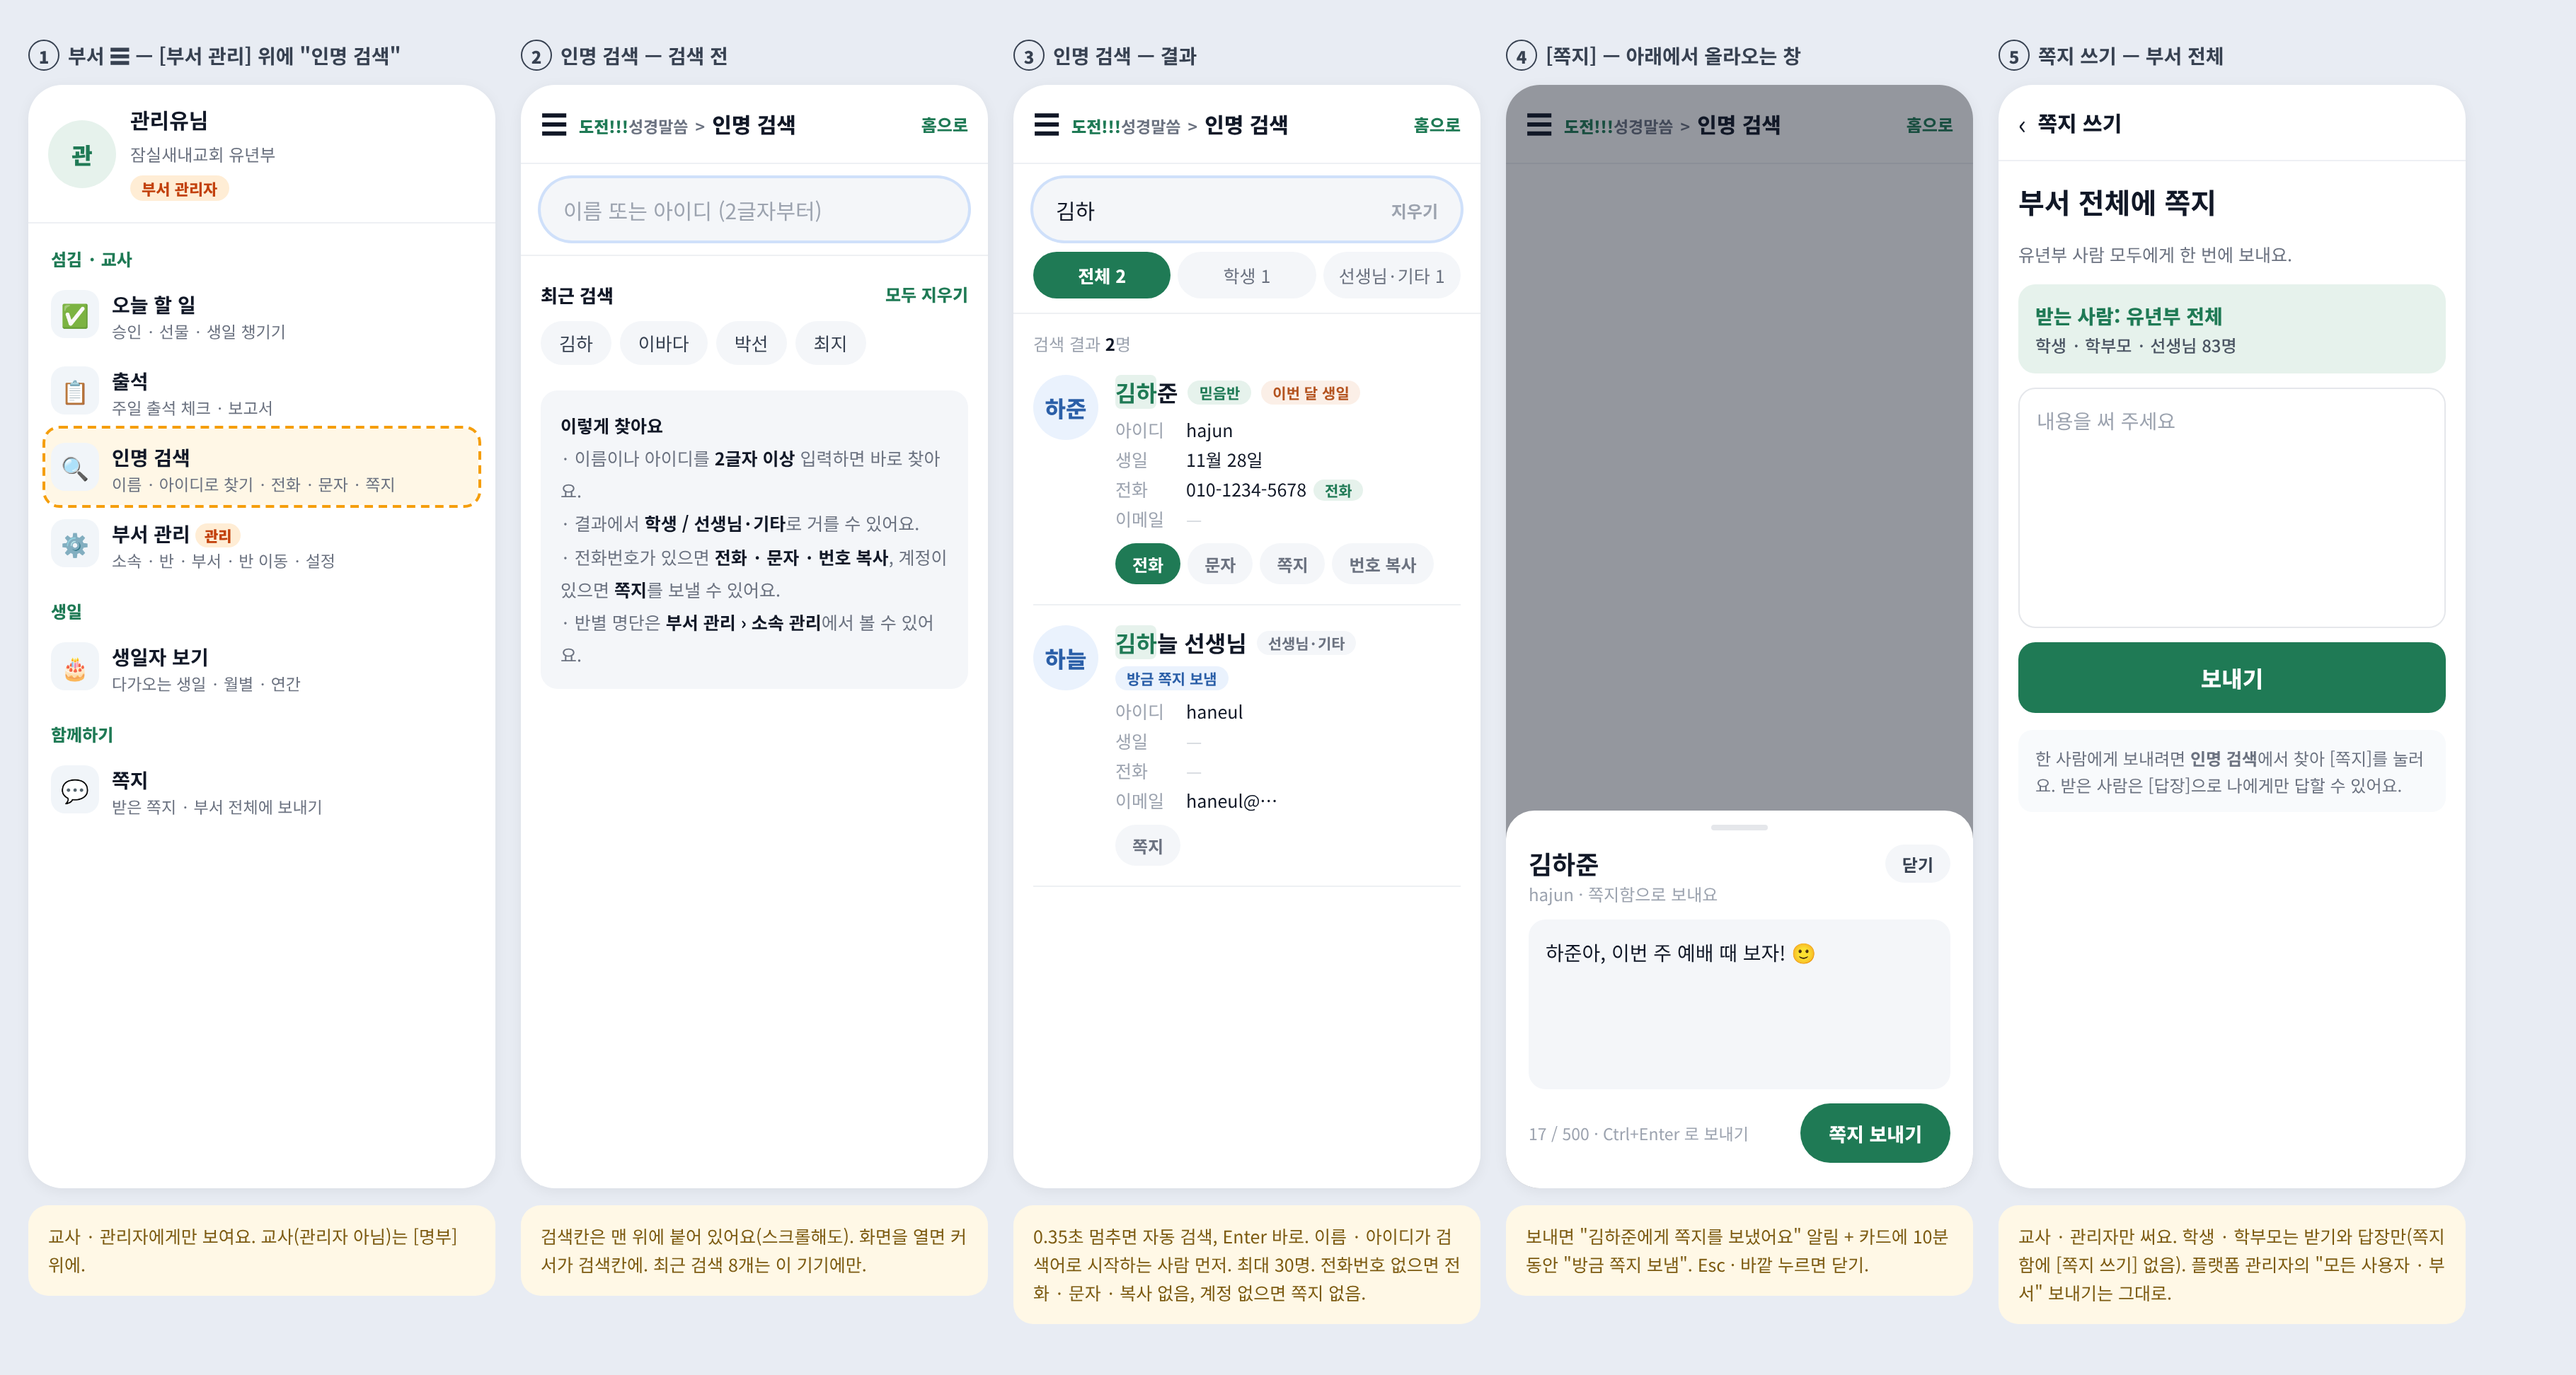
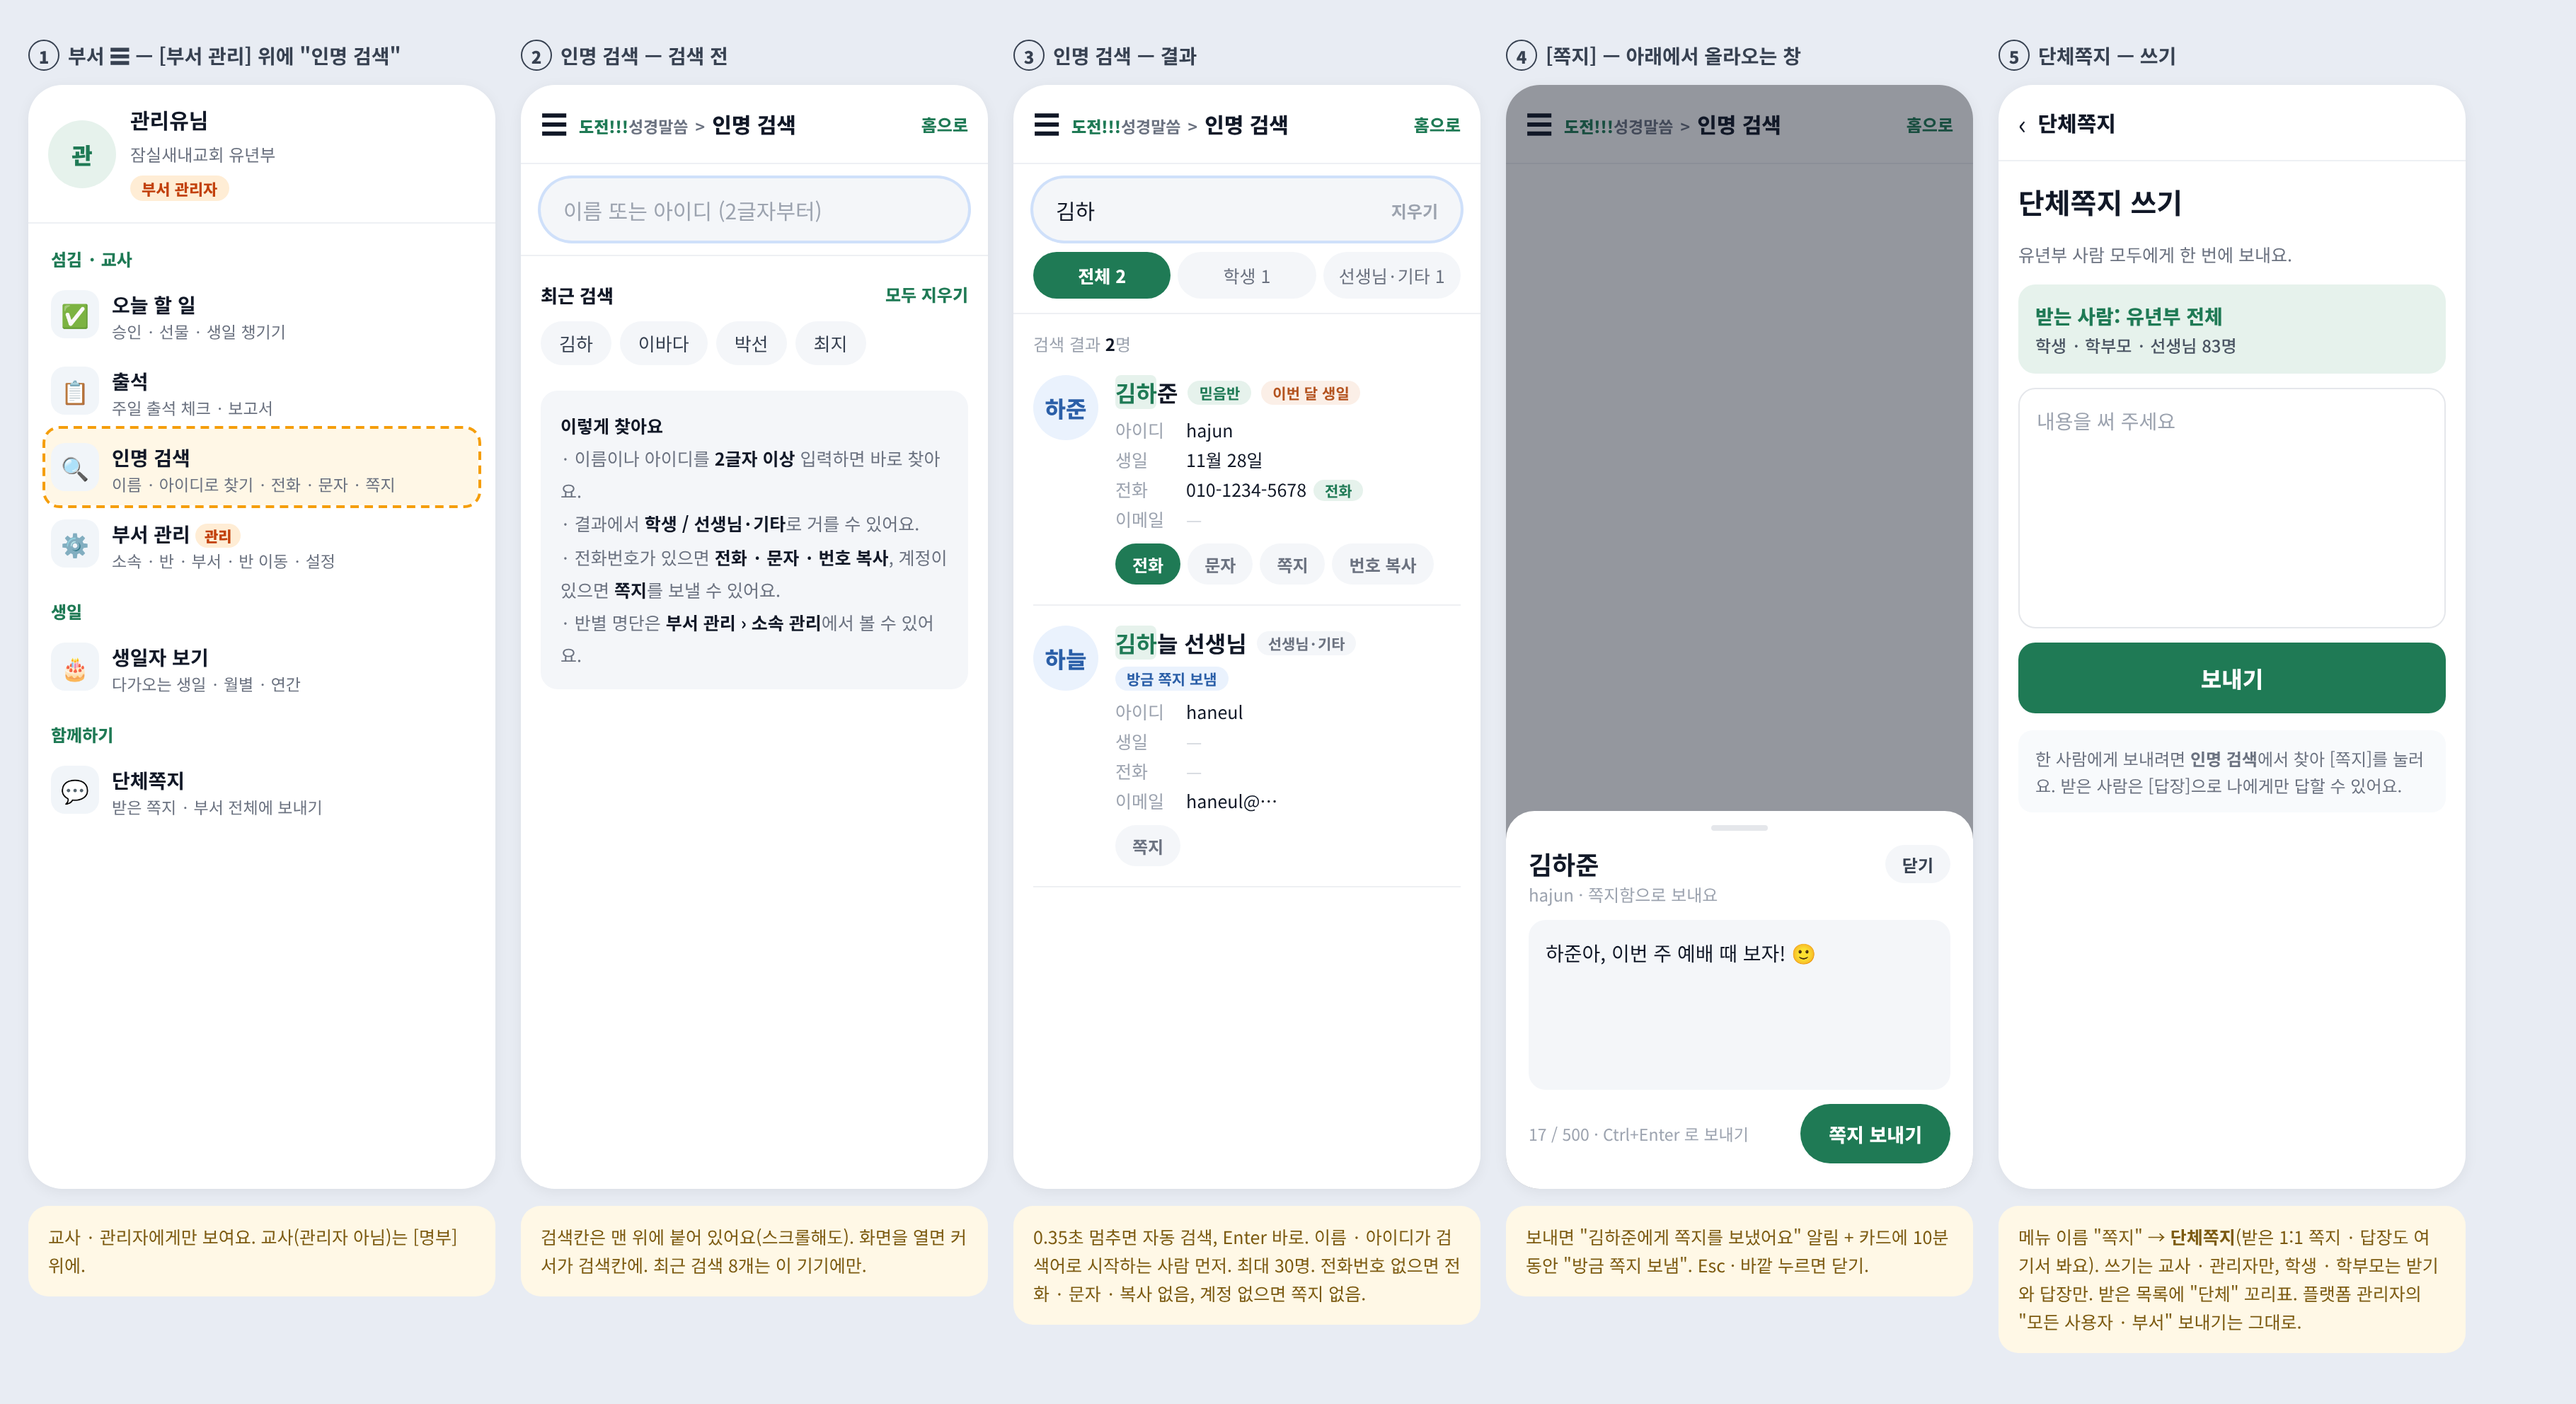
시안: 메뉴 이름 단체쪽지
Claude-Session: https://claude.ai/code/session_01U98pcojUjGDGBhhB8RrrF7

diff --git a/docs/design/시안/src/인명검색-시안.html b/docs/design/시안/src/인명검색-시안.html
@@ -53,7 +53,7 @@
   <div class="it new"><i>🔍</i><div><b>인명 검색</b><small>이름 · 아이디로 찾기 · 전화 · 문자 · 쪽지</small></div></div>
   <div class="it"><i>⚙</i><div><b>부서 관리<span class="k">관리</span></b><small>소속 · 반 · 부서 · 반 이동 · 설정</small></div></div>
   <div class="g">생일</div><div class="it"><i>🎂</i><div><b>생일자 보기</b><small>다가오는 생일 · 월별 · 연간</small></div></div>
-  <div class="g">함께하기</div><div class="it"><i>💬</i><div><b>쪽지</b><small>받은 쪽지 · 부서 전체에 보내기</small></div></div>
+  <div class="g">함께하기</div><div class="it"><i>💬</i><div><b>단체쪽지</b><small>받은 쪽지 · 부서 전체에 보내기</small></div></div>
  </div></div><div class="note">교사 · 관리자에게만 보여요. 교사(관리자 아님)는 [명부] 위에.</div></div>
 
 <div class="col"><p class="lab"><b>2</b>인명 검색 — 검색 전</p><div class="ph">
@@ -84,11 +84,11 @@
   <div class="shf"><span>17 / 500 · Ctrl+Enter 로 보내기</span><span class="send">쪽지 보내기</span></div></div>
 </div><div class="note">보내면 "김하준에게 쪽지를 보냈어요" 알림 + 카드에 10분 동안 "방금 쪽지 보냄". Esc · 바깥 누르면 닫기.</div></div>
 
-<div class="col"><p class="lab"><b>5</b>쪽지 쓰기 — 부서 전체</p><div class="ph">
- <div class="hd"><span class="m">‹</span><div class="t"><b>쪽지 쓰기</b></div></div>
- <div class="wr"><h1>부서 전체에 쪽지</h1><p class="ld">유년부 사람 모두에게 한 번에 보내요.</p>
+<div class="col"><p class="lab"><b>5</b>단체쪽지 — 쓰기</p><div class="ph">
+ <div class="hd"><span class="m">‹</span><div class="t"><b>단체쪽지</b></div></div>
+ <div class="wr"><h1>단체쪽지 쓰기</h1><p class="ld">유년부 사람 모두에게 한 번에 보내요.</p>
   <div class="to">받는 사람: 유년부 전체<small>학생 · 학부모 · 선생님 83명</small></div>
   <div class="tx">내용을 써 주세요</div><div class="bt">보내기</div>
   <div class="tip">한 사람에게 보내려면 <b>인명 검색</b>에서 찾아 [쪽지]를 눌러요. 받은 사람은 [답장]으로 나에게만 답할 수 있어요.</div></div>
-</div><div class="note">교사 · 관리자만 써요. 학생 · 학부모는 받기와 답장만(쪽지함에 [쪽지 쓰기] 없음). 플랫폼 관리자의 "모든 사용자 · 부서" 보내기는 그대로.</div></div>
+</div><div class="note">메뉴 이름 "쪽지" → <b>단체쪽지</b>(받은 1:1 쪽지 · 답장도 여기서 봐요). 쓰기는 교사 · 관리자만, 학생 · 학부모는 받기와 답장만. 받은 목록에 "단체" 꼬리표. 플랫폼 관리자의 "모든 사용자 · 부서" 보내기는 그대로.</div></div>
 </div></body></html>
